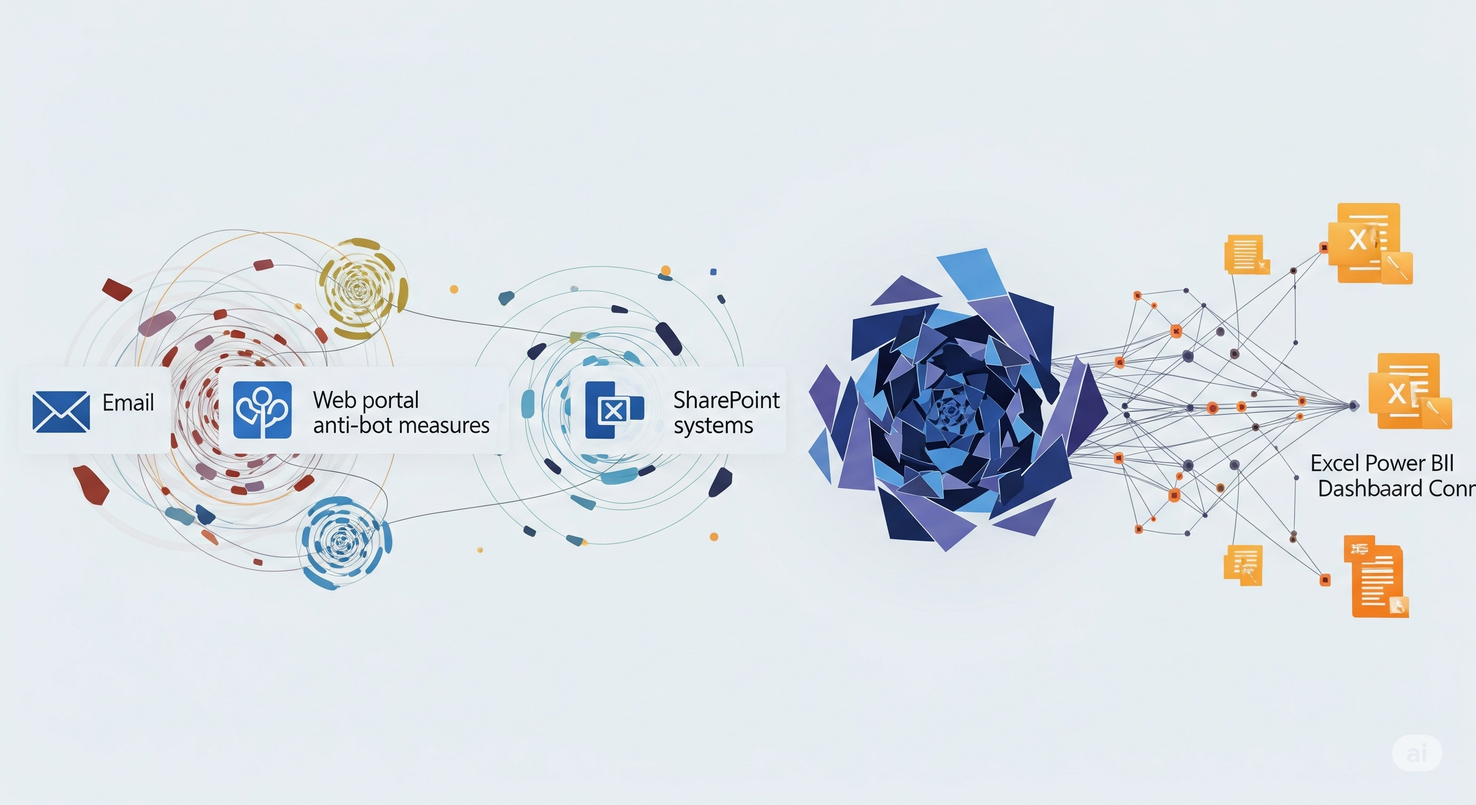
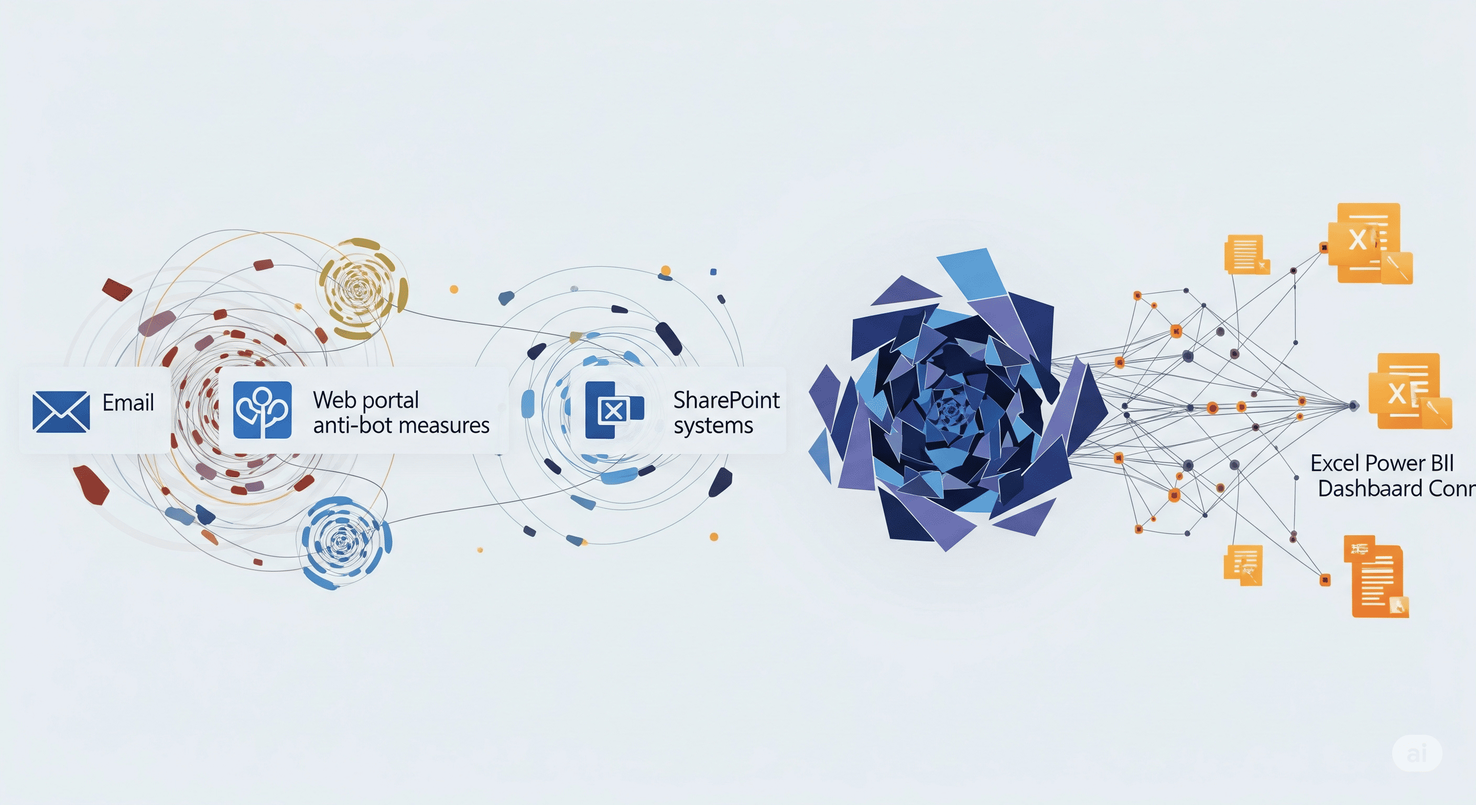
Optimizacion de imagenes

diff --git a/index.html b/index.html
@@ -406,7 +406,7 @@ Somos más que una empresa de desarrollo: somos tus socios tecnológicos.
                         <!-- Slide 2 -->
                         <div class="w-full flex-shrink-0 px-4">
                             <div class="bg-[#152636]/80 backdrop-blur-md rounded-2xl overflow-hidden">
-                                <img src="assets\images\Databam.webp" alt="Proyecto 2"
+                                <img src="assets\images\Databam.png" alt="Proyecto 2"
                                     class="w-full h-64 object-cover">
                                 <div class="p-8">
                                     <h3 class="text-2xl font-bold mb-4">Databam</h3>
